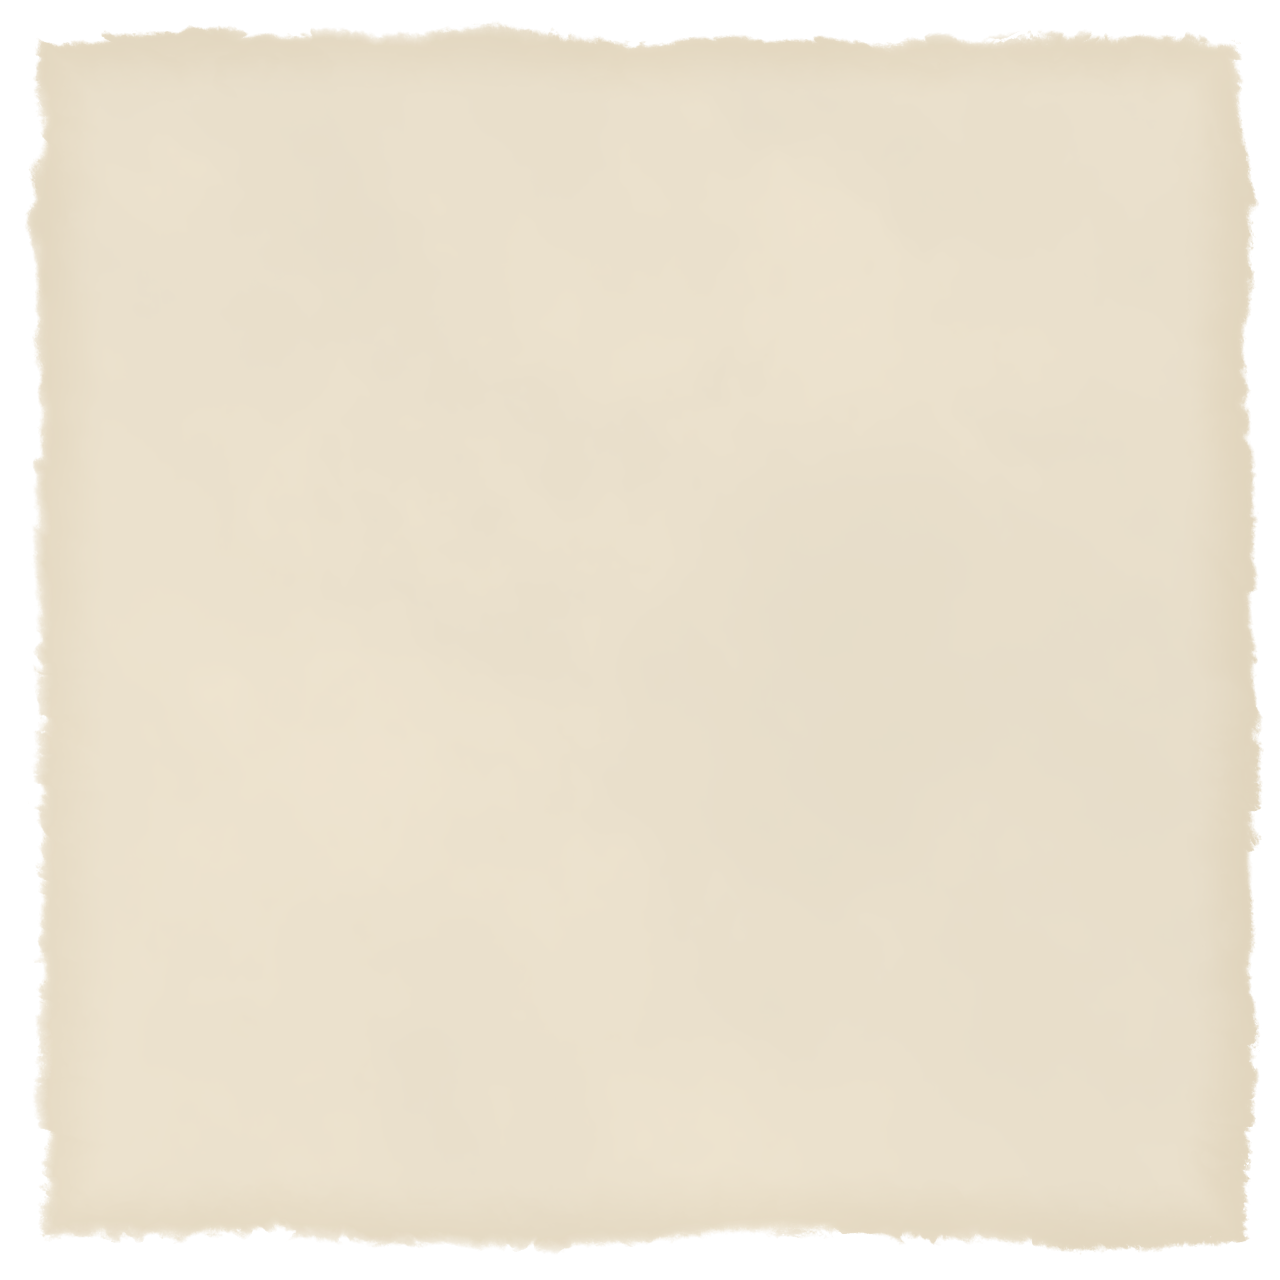
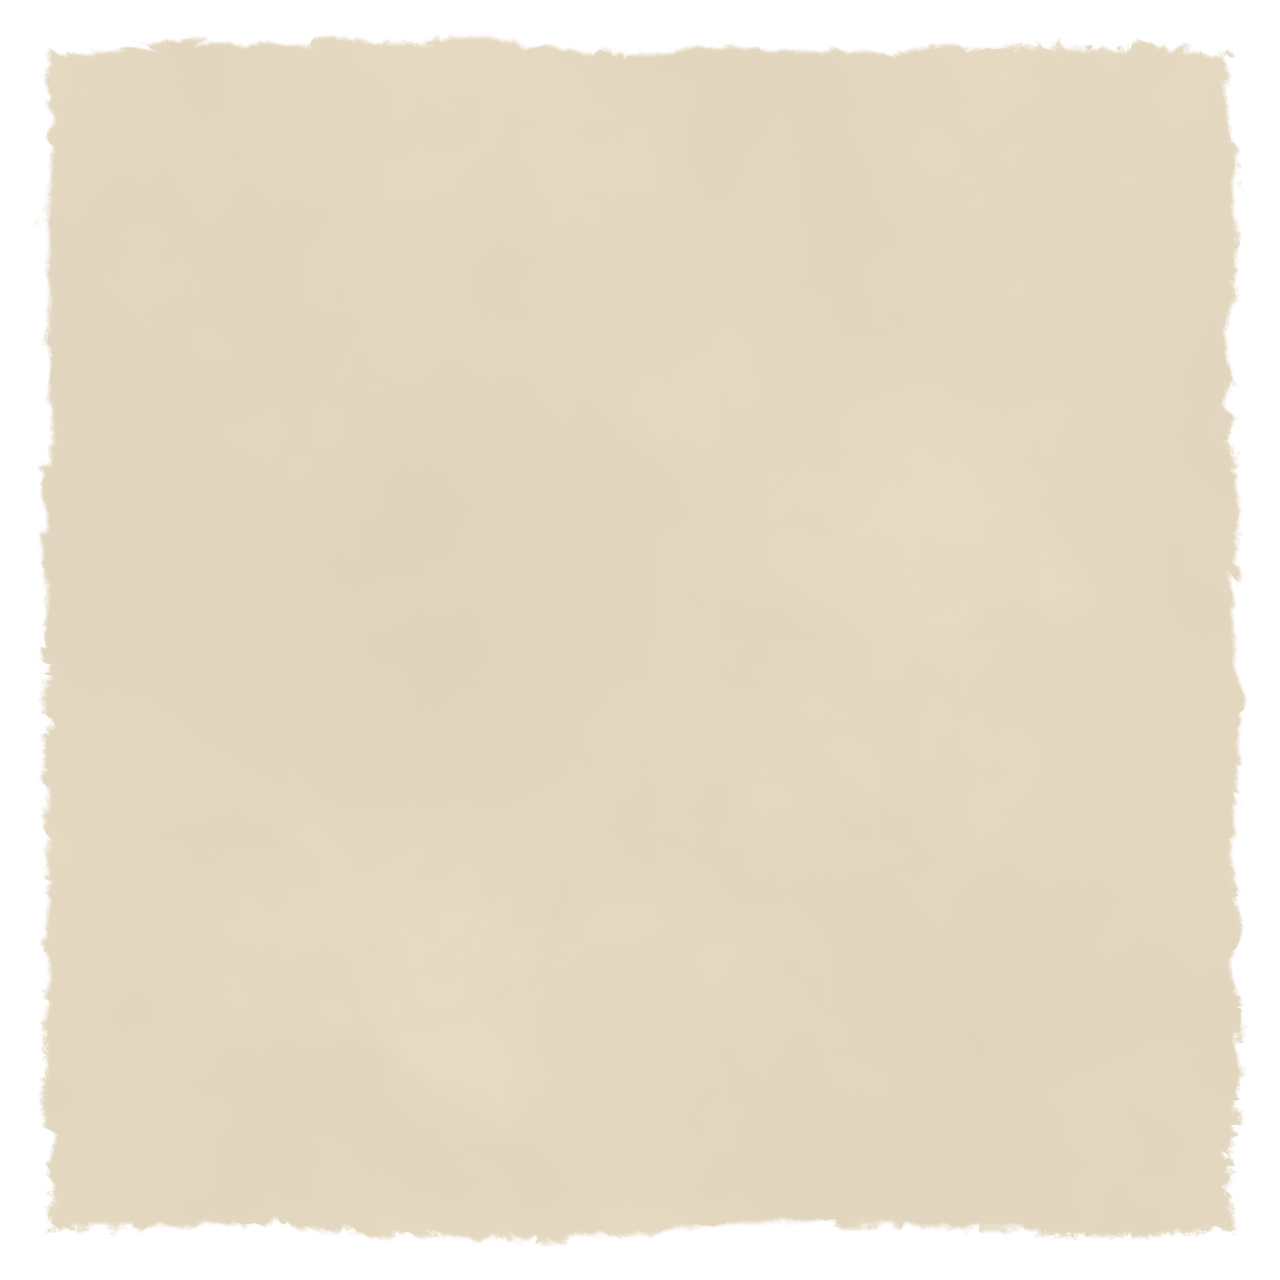
The title and the footer step off the sheet; the parchment sits down a step
Luca, on the first scenery pass: the title and the footer should take the
darkening treatment, and the parchment should be a dab darker.

The torn sheet now covers the working field alone - a new .field wrapper
around everything between the two rules - so the header and the footer
stand in the scene the way the margin rails do: no paper under them, pale
ink over a soft borderless breath. The two dividers that fenced them off
are gone on scenery; the sheet's own torn edges are that fence now. Their
scrim is the rails' gradient laid on a much wider, flatter ellipse,
centred on the copy rather than fitted to it, and a shade denser: the
rails sit halfway down where both scenes are dark anyway, while the title
stands against the sea's bright sky, which is the one place a pale ink can
be lost. Where the breath runs under the sheet, the sheet covers it.

Measured at the glyphs themselves, over both sceneries at 1600 and 1000
wide: the title 7.3-9.2, the meta line 5.7-7.0, the footer 9.8-10.5. It
was 1.8 at the worst before the breath was there.

The sheet is rebaked one dab down, #EAE0CC to #E3D7C0, and this time the
bake is in the repo: scripts/bake-paper.mjs, the same two Theory of Magic
noises (MottledCloud_023 wanders the tear, FibrousSheet_A10 frays it,
raggedness modulated by a second cloud pass), tuned to the measured
profile of the sheet it replaces - tear 30-60 px of 1280, the alpha
crossing about 8 px - so the deckle reads as the same object. 328 KB,
[…]

diff --git a/folio.html b/folio.html
@@ -69,22 +69,42 @@
     z-index:1;
     isolation:isolate;
   }
+  /* the working field: everything that is written in or read off the page.
+     On paper it is nothing at all — a transparent wrapper that changes no
+     spacing. On scenery it is what the torn sheet covers, the title and the
+     footer having stepped off it into the scene. */
+  .field{
+    width:100%;
+    display:flex;
+    flex-direction:column;
+    align-items:center;
+    position:relative;
+    isolation:isolate;
+    /* above the title's and the footer's breath, which are free to run under
+       the sheet's edge: the paper covers what it overlaps */
+    z-index:1;
+  }
   /* ---- the sheet ----
      On scenery the folio lies on the scene as a physical page: folio-paper.png
      is the ground colour with a deckled boundary torn by noise (a mottled
      cloud for the wander of the tear, a fibrous sheet for the fray itself,
-     baked offline — see the paper trail in the commit). The image is only
-     referenced inside the scenery selector, so plain paper never fetches it. */
-  main::before{
+     baked by scripts/bake-paper.mjs). The image is only referenced inside the
+     scenery selector, so plain paper never fetches it. */
+  .field::before{
     content:"";
     position:absolute;
-    inset:-3rem -3.6rem;
+    inset:-2.6rem -3.6rem;
     z-index:-1;
     background:none;
     opacity:0;
     pointer-events:none;
   }
-  body:not([data-scenery="paper"]) main::before{
+  /* the baked sheet's ground is one dab below the plain page's #EAE0CC, so
+     the flat wash that marks the playhead row (and the chosen quest, and the
+     head of a crossbar) steps down with it — the same distance under the
+     paper it lies on, or it stops being visible at all */
+  body:not([data-scenery="paper"]) .field{--wash:#D9C9A8;}
+  body:not([data-scenery="paper"]) .field::before{
     opacity:1;
     background-image:url("folio-paper.png");
     background-size:100% 100%;
@@ -587,6 +607,52 @@
   body:not([data-scenery="paper"]) .rail.left{left:0.6rem;}
   body:not([data-scenery="paper"]) .rail.right{right:0.6rem;}
 
+  /* The title and the footer take the marginalia's treatment rather than the
+     page's: on scenery they step off the sheet and stand in the scene, pale
+     ink over the same soft borderless breath, so that the torn sheet covers
+     exactly what is worked in and nothing else.
+
+     The scrim is the rails' gradient on a much wider, flatter ellipse — this
+     copy is a broad short band rather than a tall narrow one, so the dense
+     middle is wide and the fade has a long run before it meets the scenery.
+     It is denser than the rails': the rails sit halfway down, where both
+     scenes are dark anyway, while the title stands against the sea's bright
+     sky — the one place a pale ink can be lost. The ellipse is centred on the
+     copy rather than fitted to it, so that the last line of the meta is still
+     well inside the dense middle and not out on the fade. Where the breath
+     runs under the sheet, the sheet simply covers it. */
+  body:not([data-scenery="paper"]) header,
+  body:not([data-scenery="paper"]) footer{
+    --ink:#F4EEE1;
+    --faded:rgba(242,236,223,0.86);
+    --rule:rgba(242,236,223,0.30);
+    --gilt:#DCC077;
+    color:var(--faded);
+    position:relative;
+    isolation:isolate;
+  }
+  body:not([data-scenery="paper"]) header::before,
+  body:not([data-scenery="paper"]) footer::before{
+    content:"";
+    position:absolute;
+    inset:-3.6rem -6rem;
+    z-index:-1;
+    pointer-events:none;
+    background:radial-gradient(ellipse closest-side at center,
+      rgba(13,18,16,0.58) 0%,
+      rgba(13,18,16,0.56) 34%,
+      rgba(13,18,16,0.50) 55%,
+      rgba(13,18,16,0.37) 70%,
+      rgba(13,18,16,0.21) 82%,
+      rgba(13,18,16,0.08) 92%,
+      rgba(13,18,16,0) 100%);
+  }
+  body:not([data-scenery="paper"]) header{margin-bottom:3.2rem;}
+  body:not([data-scenery="paper"]) footer{margin-top:3.2rem;}
+  /* the two rules that fenced the title and the footer off from the work:
+     the sheet's own torn edges are that fence now */
+  body:not([data-scenery="paper"]) .divider{display:none;}
+
   /* Scenery is outside the pad crossbar: all eight of its slots keep their
      musical meanings.  This small, still control answers pointer users;
      Shift+B gives the keyboard the same three-way cycle. */
@@ -649,7 +715,13 @@
   @media (max-width:44rem){
     /* the deckle bites about 2rem in at its deepest: the sheet may narrow on
        a small screen, but never so far that the tear reaches the words */
-    main::before{inset:-2.4rem -1.2rem;}
+    .field::before{inset:-2.2rem -1.2rem;}
+    /* the breath must end inside the window, or its floor reads as a band
+       along the edge of the screen */
+    body:not([data-scenery="paper"]) header::before,
+    body:not([data-scenery="paper"]) footer::before{inset:-2.8rem -2.6rem;}
+    body:not([data-scenery="paper"]) header{margin-bottom:2.6rem;}
+    body:not([data-scenery="paper"]) footer{margin-top:2.6rem;}
     .scenery{top:0.45rem;right:0.45rem;}
     .scenery span{position:absolute;width:1px;height:1px;overflow:hidden;clip:rect(0 0 0 0);}
   }
@@ -675,6 +747,7 @@
   </header>
   <div class="divider"></div>
 
+  <div class="field" id="field">
   <div class="voices" id="voices" aria-label="the voices">
     <div><span class="vname" id="vname0">lead</span><span class="vmark" id="vmark0"></span></div>
     <div><span class="vname" id="vname1">bass</span><span class="vmark" id="vmark1"></span></div>
@@ -793,6 +866,7 @@
     </div>
     <p>Constraint &eacute;tudes, taken in any order and abandoned guiltlessly. Every quest is a workspace holding its own page &mdash; choosing one puts you in it, choosing it again returns to free play, and nothing is ever bound, loaded or lost: each page saves itself where it lives. &#10087; complete &middot; &#8226; something written &middot; &#9876; where you are. Served from folio.cmd, the whole log keeps itself in quests/quest&#8209;log.json; otherwise Ctrl&#8239;+&#8239;S writes it out once, to be kept at that same place.</p>
   </section>
+  </div>
 
   <div class="divider"></div>
   <footer id="footer">&#8248; cursor row &middot; F1 for the key</footer>

diff --git a/tests/statictest.js b/tests/statictest.js
@@ -109,7 +109,10 @@ const seen = [];
               height:r.height,client:el.clientHeight,scroll:el.scrollHeight,
               background:s.backgroundColor,image:s.backgroundImage,shadow:s.boxShadow,overflow:s.overflow,
               fade:p.backgroundImage,
-              mainFade:getComputedStyle(document.querySelector('main'),'::before').backgroundImage};
+              /* the sheet moved off <main> and onto the working field alone:
+                 the title and the footer stand in the scene now */
+              mainFade:getComputedStyle(document.querySelector('.field'),'::before').backgroundImage,
+              onMain:getComputedStyle(document.querySelector('main'),'::before').backgroundImage};
     });
   })()`);
   ok("the edge copy sits bounded in the scene, on no panel of its own",
@@ -120,6 +123,57 @@ const seen = [];
        r.mainFade.indexOf("folio-paper.png") >= 0), railPanels);
   ok("neither rail fade clips its copy",
      railPanels.every(r => r.overflow === "visible"), railPanels);
+  ok("and <main> as a whole is no longer the sheet",
+     railPanels.every(r => r.onMain.indexOf("folio-paper.png") < 0), railPanels);
+
+  /* the title and the footer took the margins' treatment: off the sheet, in
+     the scene, pale ink over the same borderless breath */
+  const ends = await b.eval(`(function(){
+    var out = {};
+    ['header','footer'].forEach(function(sel){
+      var el = document.querySelector(sel), s = getComputedStyle(el),
+          p = getComputedStyle(el, '::before'),
+          f = document.querySelector('.field').getBoundingClientRect(),
+          r = el.getBoundingClientRect();
+      out[sel] = { background:s.backgroundColor, image:s.backgroundImage,
+                   border:s.borderTopWidth, shadow:s.boxShadow,
+                   scrim:p.backgroundImage,
+                   /* clear of the working field, which is what the sheet covers */
+                   clear: sel === 'header' ? r.bottom <= f.top : r.top >= f.bottom,
+                   ink:getComputedStyle(el.querySelector('h1,#footer') || el).color };
+    });
+    out.divider = getComputedStyle(document.querySelector('.divider')).display;
+    out.wash = getComputedStyle(document.querySelector('.field')).getPropertyValue('--wash').trim();
+    return out;
+  })()`);
+  ok("the title and the footer stand in the scene, on no sheet and no panel",
+     ['header','footer'].every(k => ends[k].background === "rgba(0, 0, 0, 0)" &&
+       ends[k].image === "none" && ends[k].shadow === "none" &&
+       ends[k].border === "0px" && ends[k].clear), ends);
+  ok("each breathes the same borderless darkening the margins do",
+     ['header','footer'].every(k => /^radial-gradient/.test(ends[k].scrim) &&
+       ends[k].scrim.indexOf("closest-side") >= 0 &&
+       /rgba\(13, 18, 16, 0\)/.test(ends[k].scrim)), ends);
+  ok("the rules that fenced them off are the torn edges now",
+     ends.divider === "none", ends.divider);
+  ok("the wash steps down with the darker sheet",
+     ends.wash.toUpperCase() === "#D9C9A8", ends.wash);
+  /* the ground is baked into the sheet, not written in CSS: read it back out
+     of the image the deploy actually carries (scripts/bake-paper.mjs) */
+  const ground = await b.eval(`(async function(){
+    const img = new Image(); img.src = "/folio-paper.png"; await img.decode();
+    const c = document.createElement('canvas'); c.width = img.width; c.height = img.height;
+    const g = c.getContext('2d', { willReadFrequently:true }); g.drawImage(img, 0, 0);
+    const d = g.getImageData(Math.round(img.width*0.3), Math.round(img.height*0.3),
+                             Math.round(img.width*0.4), Math.round(img.height*0.4)).data;
+    let s = [0,0,0], a = 0;
+    for (let i = 0; i < d.length; i += 4){ s[0]+=d[i]; s[1]+=d[i+1]; s[2]+=d[i+2]; a+=d[i+3]; }
+    const n = d.length / 4;
+    return { rgb:s.map(v => Math.round(v/n)), alpha:Math.round(a/n), w:img.width, h:img.height };
+  })()`);
+  ok("the sheet is whole inside and its ground a dab under the plain page's",
+     ground.alpha === 255 && ground.w === 1280 && ground.h === 1280 &&
+     ground.rgb.every((v, i) => Math.abs(v - [227,215,192][i]) <= 3), ground);
   const sceneryStyle = await b.eval(`(function(){
     var el=document.getElementById('scenery'),s=getComputedStyle(el);
     return {border:s.borderTopWidth,box:s.backgroundImage,
